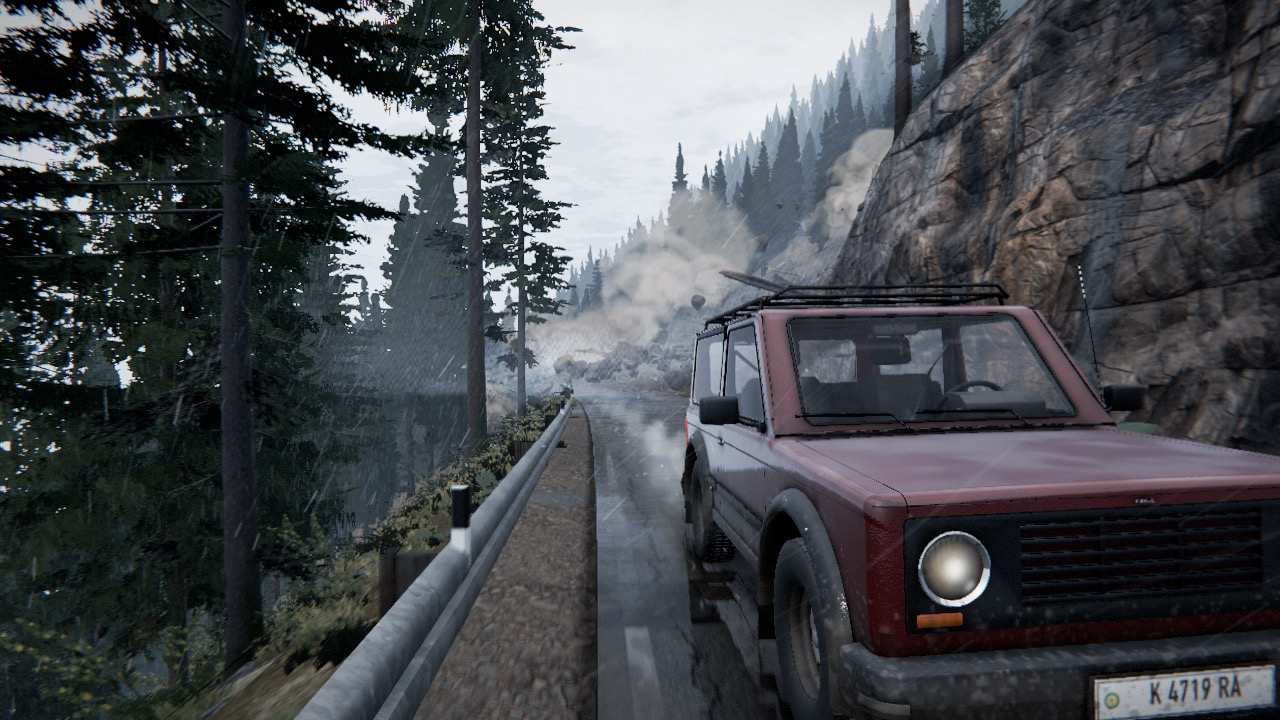
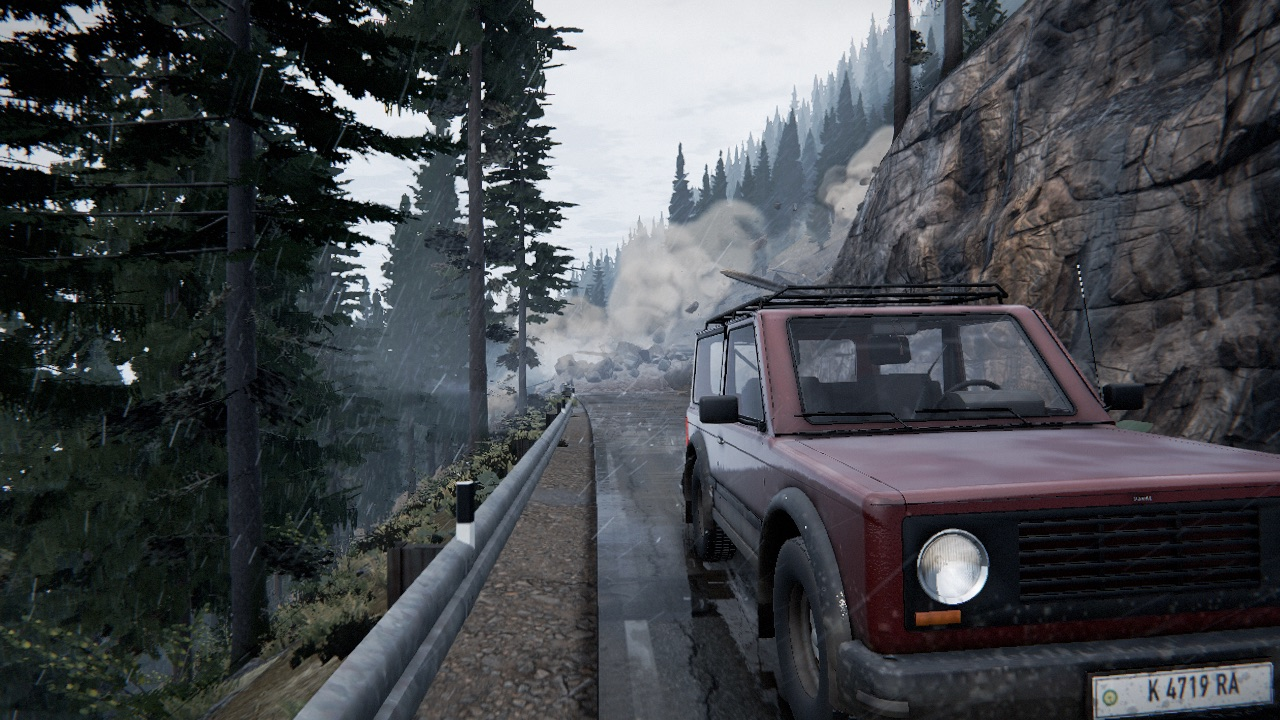
Artifact fixes: pattern-free forest, streaky tyre spray, real headlights, muddy rocks, weathered tunnel portal
- Forest: blue-noise mist jitter removes the diamond lattice; coverage-preserving mips
  and soft alpha fringes remove sparkles and stair-stepped tree edges; smooth LOD hand-over.
- Car: tyre spray rebuilt as velocity-stretched streaky mist (the blobs were exhaust vapour);
  fluted-glass H4 headlamps with chrome reflector and bulb; wipers split into their own nodes.
- Landslide: flying rocks use full-detail meshes with a wet mud coat and trailing grit.
- Tunnel: formwork panels, rain/rust streaks, moss, name plate, reflective arch strips.
- QA: kerb-crack sparkles in the tunnel, windshield micro-bead sparkles, wood-chip colour.
- Low/Medium asset variants regenerated.

diff --git a/src/render/impostor.js b/src/render/impostor.js
@@ -157,8 +157,8 @@ function lodVertexCode(depthPass) {
   float tr_dist = distance(uCamPos, tr_ipos);
   // x: fill fraction of this LOD (inner hand-over); y: fraction of its cards removed (outer hand-over). Both LODs of a
   // hand-over share one band parameter t: the incoming one fills linearly (t) while the outgoing one keeps
-  // (1 - t) / (1 - k t), which holds the union coverage of the two overlapping silhouettes constant (k = overlap area /
-  // single-LOD area, measured with scratch/fix_dither/coverage.mjs): no thickening or thinning across the band
+  // (1 - t) / (1 - k t), which holds the union coverage of the two overlapping silhouettes about constant (k tuned
+  // per hand-over with scratch/fix_dither/coverage.mjs, uLodK): no thickening or thinning across the band
   float tr_tout = smoothstep(uLod.z, uLod.w, tr_dist);
   vLodT = tr_tout;
   vLod = vec2(uLod.y > 0.0 ? smoothstep(uLod.x, uLod.y, tr_dist) : 1.0, 1.0 - (1.0 - tr_tout) / max(1.0 - uLodK.x * tr_tout, 1e-3));
@@ -206,14 +206,16 @@ const GLSL_ALPHA_MIP = /* glsl */`
 // vanishes or opens as a hard, fully bright pixel (the white "sparkles" against the misty sky). Each alpha-tested
 // material therefore has a blended twin drawn right after the opaque pass: depth test LESS against the opaque depth,
 // no depth write, it shades only the texels the opaque pass rejected (coverage between cut * FRINGE_LO and cut) and
-// blends them with opacity coverage / cut, so opacity is continuous across the cut. A real lens + sensor never renders
+// blends them with an opacity ramping from 0 to 1 over that range (continuous at both thresholds). A real lens + sensor never renders
 // a partially covered pixel as all-or-nothing either (optical low-pass: MTF50 ~0.3 cycles/px for a phone / dashcam).
-const FRINGE_LO = 0.3;
-function glslCoverage(cut, fringe, fadeDist = 0, fadeVar = '') {
+const FRINGE_LO = 0.15;   // foliage; the impostor atlas (soft, wide low-alpha skirts) uses 0.3
+function glslCoverage(cut, fringe, fadeDist = 0, fadeVar = '', loFrac = FRINGE_LO) {
   if (!fringe) return '#include <alphatest_fragment>\n';
   let fade = fadeDist ? ` * (1.0 - smoothstep(${(fadeDist * 0.6).toFixed(1)}, ${fadeDist.toFixed(1)}, length(vViewPosition)))` : '';
   if (fadeVar) fade += ` * ${fadeVar}`;
-  return `{ float tr_cov = diffuseColor.a; if (tr_cov >= ${cut.toFixed(4)} || tr_cov < ${(cut * FRINGE_LO).toFixed(4)}) discard; diffuseColor.a = tr_cov / ${cut.toFixed(4)}${fade}; }\n`;
+  // opacity ramps 0 -> 1 from cut * FRINGE_LO to cut: continuous at both ends (no visible step at either threshold)
+  const lo = cut * loFrac;
+  return `{ float tr_cov = diffuseColor.a; if (tr_cov >= ${cut.toFixed(4)} || tr_cov <= ${lo.toFixed(4)}) discard; diffuseColor.a = (tr_cov - ${lo.toFixed(4)}) / ${(cut - lo).toFixed(4)}${fade}; }\n`;
 }
 // The fringe's clip-space depth is pushed back along the view ray by `push` metres (screen position unchanged), so
 // with depth test LESS it only shades where the opaque background lies more than `push` behind it: holes through the
@@ -311,7 +313,7 @@ function glslTranslucency(mask, shell) {
 }
 
 /**
- * Foliage card material (alpha tested, double sided, bent normals, baked crown AO, wind, LOD dither).
+ * Foliage card material (alpha tested, double sided, bent normals, baked crown AO, wind, LOD card thinning).
  * opts: {map, normalMap, lod: Vector4 uniform value (shared per LOD), alphaTest}
  */
 export function createFoliageMaterial(opts) {
@@ -401,7 +403,7 @@ export function createFoliageMaterial(opts) {
   return m;
 }
 
-/** Bark material: albedo + normal + ARM (AO/rough), wetness streaks, wind, LOD dither. */
+/** Bark material: albedo + normal + ARM (AO/rough), wetness streaks, wind, LOD switch. */
 export function createBarkMaterial(opts) {
   const m = new THREE.MeshStandardMaterial({
     map: opts.map, normalMap: opts.normalMap || null, roughnessMap: opts.arm || null, aoMap: opts.arm || null,
@@ -450,7 +452,7 @@ export function createBarkMaterial(opts) {
   return m;
 }
 
-/** Shadow depth material for instanced trees (wind + alpha test; no dither). */
+/** Shadow depth material for instanced trees (wind + alpha test; no LOD selection). */
 export function createTreeDepthMaterial(map, alphaTest = 0.42) {
   const m = new THREE.MeshDepthMaterial({ depthPacking: THREE.RGBADepthPacking, map: map || null, alphaTest: map ? alphaTest : 0 });
   m.onBeforeCompile = (sh) => {
@@ -556,8 +558,8 @@ function createImpostorMaterial(meta, albedo, normal, base = null) {
         transformed = cameraPosition + (transformed - cameraPosition) * (max(dist - pull, dist * 0.5) / dist);
         float hh = max(0.0, V.w * s + hq);
         transformed += tr_wind(hh, 0.0, tr_hash12(iPos.xz * 0.173), 0.0, center);
-        // LOD distance measured exactly like the mesh LODs (main camera -> trunk base) so the complementary dither
-        // thresholds line up pixel for pixel across the mesh/impostor band
+        // LOD distance measured exactly like the mesh LODs (main camera -> trunk base) so the impostor fill and the
+        // mesh LOD1 hand-over share one band parameter (see lodVertexCode)
         float lodDist = distance(uCamPos, iPos.xyz);
         vLod = vec2(smoothstep(uLod.x, uLod.y, lodDist), smoothstep(uLod.z, uLod.w, lodDist));
         if (vLod.x <= 0.0 || vLod.y >= 1.0) transformed = vec3(0.0, -1e5, 0.0); // fully handled by meshes / beyond range
@@ -584,7 +586,7 @@ function createImpostorMaterial(meta, albedo, normal, base = null) {
         diffuseColor.rgb *= mix(vec3(1.0), tint, uTintAmt) * uFolTint * uImpBright;
         diffuseColor.rgb *= mix(1.0, 0.92, uWet);
       `)
-      .replace('#include <alphatest_fragment>', glslCoverage(IMP_CUTOFF, fringe, IMP_FRINGE_DIST) + /* glsl */`
+      .replace('#include <alphatest_fragment>', glslCoverage(IMP_CUTOFF, fringe, IMP_FRINGE_DIST, '', 0.3) + /* glsl */`
         if (vLod.x < 1.0 || vLod.y > 0.0) {
           // LOD crossfade in branch-sized clumps, not a per-pixel screen-door: tree-locked value noise in quad space
           // (~1 m and ~0.4 m cells), remapped to a near-uniform distribution (smoothstep ~ normal CDF) and weighted
@@ -682,7 +684,8 @@ for (let i = 0; i <= 4096; i++) { const c = i / 4096; _l2s[i] = Math.round(255 *
  *    alpha boost) only approximated this and was paired with a negative LOD bias that sampled sub-pixel gaps;
  *  - colour is averaged with alpha weights (premultiplied, in linear light for sRGB maps) and pushed into the empty
  *    texels of every level (push-pull dilation), so a filtered edge never picks up the colour of empty texels.
- * Level 0 stays the original image (a canvas round trip zeroes the colour of alpha = 0 texels). Runs once at load
+ * Level 0 stays the original image where possible (a canvas round trip zeroes the colour of alpha = 0 texels; an
+ * ImageBitmap is replaced, see below). Runs once at load
  * (~0.1-0.3 s for a 2048^2 atlas). Returns the per-level alpha scales, or null if the image cannot be read.
  */
 export function applyCoverageMips(tex, cutoff, { srgb = true } = {}) {
@@ -757,7 +760,24 @@ export function applyCoverageMips(tex, cutoff, { srgb = true } = {}) {
       }
     }
   }
-  const mips = [img];
+  // Level 0. An ImageBitmap (GLTFLoader) must not stay the texture's image: three.js skips the UNPACK_FLIP_Y /
+  // PREMULTIPLY / COLORSPACE pixelStorei calls for ImageBitmap textures, so the ImageData levels would be uploaded with
+  // whatever unpack state the previous texture left (measured: levels >= 1 came out vertically flipped). It is
+  // replaced by an ImageData copy whose empty texels get the dilated colour of level 1 (the canvas zeroed them).
+  let level0 = img;
+  if (typeof ImageBitmap !== 'undefined' && img instanceof ImageBitmap) {
+    const d0 = new Uint8ClampedArray(src.length), L1 = levels[0];
+    d0.set(src);
+    for (let i = 0; i < W * H; i++) {
+      if (src[i * 4 + 3] !== 0 || !L1) continue;
+      const x = Math.min(L1.w - 1, (i % W) >> 1), y = Math.min(L1.h - 1, ((i / W) | 0) >> 1), j = (y * L1.w + x) * 3;
+      for (let c = 0; c < 3; c++) { const v = Math.min(1, Math.max(0, L1.U[j + c])); d0[i * 4 + c] = dec ? _l2s[(v * 4096) | 0] : Math.round(v * 255); }
+    }
+    level0 = new ImageData(d0, W, H);
+    tex.image = level0;
+    img.close?.();
+  }
+  const mips = [level0];
   levels.forEach((L, li) => {
     const n = L.w * L.h, d = new Uint8ClampedArray(n * 4), s = scales[li];
     for (let i = 0; i < n; i++) {
@@ -873,15 +893,14 @@ export class TreeField {
     this.band0 = 3.5;
     this.band1 = Math.max(6, this.meshDist * 0.09);
     // blended coverage fringes (see glslCoverage): ultra / high on foliage + impostors, medium on impostors only
-    // (cheap), low none. Debug: ?fringe=all|imp|none (?nofringe = none).
+    // (cheap), low none. Debug: ?fringe=all|near|imp|none (?nofringe = none).
     const sp = new URLSearchParams(globalThis.location?.search || '');
     const fr = sp.has('nofringe') ? 'none' : (sp.get('fringe') || (q.key === 'low' ? 'none' : q.key === 'medium' ? 'imp' : 'all'));
-    this.fringe = fr === 'all' || fr === 'full';      // mesh foliage
+    this.fringe = fr === 'all' || fr === 'near';      // mesh foliage
     this.impFringeOn = this.fringe || fr === 'imp';   // impostors
-    // mesh-foliage fringe on every mesh LOD on ultra; on high only on the near trees (LOD0 + shadow-casting LOD1, the
-    // crowns where sky holes read as sparkles), handing over to the plain alpha test over the 8 m before shadowDist
-    // (the far-LOD1 fringe cost ~0.3 ms on the M1 for trees whose edges the impostor fringe takes over at 34+ m)
-    this.fringeFar = this.fringe && (q.key === 'ultra' || fr === 'full');
+    // 'near': the mesh-foliage fringe only on LOD0 + the shadow-casting LOD1, handing over to the plain alpha test over
+    // the 8 m before shadowDist (saves ~0.15 ms on the M1 but the 20-30 m crowns sparkle again; not used by a preset)
+    this.fringeFar = this.fringe && fr !== 'near';
     if (this.fringe && !this.fringeFar) FOLIAGE.fringeFade.value.set(this.shadowDist - 8, this.shadowDist);
     else FOLIAGE.fringeFade.value.set(1e9, 1e9 + 1);
     // coverage gains that make every LOD of a tree cover the same crown area (scratch/fix_dither/coverage.mjs, isolated
@@ -890,7 +909,7 @@ export class TreeField {
     // real Norway spruce at 30-50 m; the model's decimated LOD1 needs the larger gain)
     FOLIAGE.gain0.value.set(this.fringe ? 1.3 : 2.0, 2.0);
     FOLIAGE.gain1.value.set(this.fringe ? 1.7 : 3.0, 3.0);
-    FOLIAGE.impGain.value = this.impFringeOn ? 0.8 : 1.1;
+    FOLIAGE.impGain.value = this.impFringeOn ? 0.9 : 1.15;
     this.group = new THREE_.Group();
     this.group.name = 'trees';
     ctx.scene.add(this.group);
@@ -962,7 +981,7 @@ export class TreeField {
           const mat = isFol ? matFol[ml] : (key === 'bark_grey' ? matGrey[ml] : matBark[ml]);
           const im = new THREE.InstancedMesh(geo, mat, cap[lod]);
           im.name = `${names[vi]}_lod${lod}_${key}`;
-          // PERF (QA): every tree material discards (alpha test + dithered LOD crossfade), which defeats the M1's
+          // PERF (QA): every tree material discards (alpha test + LOD card thinning), which defeats the M1's
           // hidden-surface removal. Drawing the distance bands near -> far (LOD0, LOD1, LOD2, then impostors) lets
           // early-z reject hidden needle cards: -12 % GPU time in the escape drive, no visual change.
           im.renderOrder = 1 + lod;

diff --git a/src/world/particles.js b/src/world/particles.js
@@ -366,6 +366,7 @@ attribute vec4 iS;     // scale, kind (0 rock chip, 1 mud, 2 wood splinter), see
 uniform float uTime;
 varying float vKind;
 varying float vShade;
+varying vec3 vChL;
 mat3 chipRot(vec3 ax, float a) {
   ax = normalize(ax); float s = sin(a), c = cos(a), oc = 1.0 - c;
   return mat3(oc * ax.x * ax.x + c, oc * ax.x * ax.y + ax.z * s, oc * ax.z * ax.x - ax.y * s,
@@ -393,7 +394,11 @@ vec3 chP = iP0 + iV * chTe + vec3(0.0, -4.905 * chTe * chTe, 0.0);
 if (chAge > chTl) { chP.xz += iV.xz * min(chAge - chTl, 0.2) * 0.25; chP.y = iT.z; }
 float chSc = iS.x * chAlive * (1.0 - smoothstep(0.8, 1.0, chAge / max(iT.y, 1e-3)));
 vec3 chShape = iS.y > 1.5 ? vec3(0.9, 0.22, 2.0) : vec3(1.0);   // wood: thin flat splinter
-vec3 transformed = chR * (position * chShape * chSc);
+// (QA) a flattened icosahedron is a pointed lens (read as seeds / petals in the chop shot); hatchet chips from spruce
+// are split slabs with blunt, torn ends: push the wood chip's vertices toward the box corners
+vec3 chPos = iS.y > 1.5 ? sign(position) * pow(abs(position), vec3(0.4)) : position;
+vChL = chPos * chShape;
+vec3 transformed = chR * (chPos * chShape * chSc);
 if (chSplat) { transformed.y *= 0.22; transformed.xz *= 1.7; transformed.y += chSc * 0.05; }
 transformed += chP;
 vKind = iS.y;
@@ -431,10 +436,13 @@ class ChipSystem {
         .replace('#include <beginnormal_vertex>', CHIP_NORMAL)
         .replace('#include <begin_vertex>', CHIP_VERT);
       sh.fragmentShader = sh.fragmentShader
-        .replace('#include <common>', '#include <common>\nvarying float vKind;\nvarying float vShade;')
+        .replace('#include <common>', '#include <common>\nvarying float vKind;\nvarying float vShade;\nvarying vec3 vChL;')
         .replace('#include <color_fragment>', `#include <color_fragment>
           // rock chip / wet mud / fresh spruce wood (pale sapwood, ~1 in 5 a dark bark flake)
           vec3 chWood = vShade > 1.18 ? vec3(0.075, 0.045, 0.03) : vec3(0.47, 0.335, 0.17) * (0.75 + 0.35 * vShade);
+          // growth rings / fibres run along the splinter (local z): fine lengthwise stripes, latewood darker
+          float chGr = fract(sin(floor(vChL.x * 3.5 + vChL.y * 2.0 + vShade * 17.0) * 43.7) * 7613.1);
+          chWood *= 0.8 + 0.2 * chGr - 0.1 * smoothstep(0.85, 1.0, abs(vChL.z) / 2.0);
           diffuseColor.rgb = vKind < 0.5 ? vec3(0.19, 0.18, 0.165) * vShade : (vKind < 1.5 ? vec3(0.06, 0.045, 0.032) * vShade : chWood);`)
         .replace('#include <roughnessmap_fragment>', '#include <roughnessmap_fragment>\nroughnessFactor = vKind < 0.5 ? 0.72 : (vKind < 1.5 ? 0.22 : 0.6);');
     };
@@ -1128,7 +1136,12 @@ void main() {
     // defocus: the eye / lens is focused on the road, a 4 mm pupil blurs the glass (0.7 m) by ~3 px
     float blurR = 2.2 / max(mag * 0.5, 1.0);
     float edge = 1.0 - smoothstep(max(1.0 - blurR, 0.15), 1.0 + blurR * 0.3, r);
-    col = dcol; alpha = edge * smoothstep(0.0, 0.12, bage);
+    // (QA) a bead smaller than that ~5.5 mrad blur circle cannot show as a crisp dot: its light is spread over the
+    // blur disc at a fraction of the contrast. Drawn only over its own 1-2 px it was a full-contrast white pixel (the
+    // sky image in its lower half) -> hundreds of sparkles against the dark headwall. Fade sub-blur beads by
+    // diameter / blur (between peak-preserving and energy-conserving); beads larger than the blur are unchanged.
+    float sub = clamp(mag / max(0.0055 * uPxRad, 1.0), 0.2, 1.0);
+    col = dcol; alpha = edge * smoothstep(0.0, 0.12, bage) * sub;
   }
   // ---- rivulets: big drops run down (slow) or are blown up the glass (fast), leaving a wet trail ----------------
   {

diff --git a/src/world/terrain.js b/src/world/terrain.js
@@ -92,6 +92,8 @@ export default class Terrain {
       catch (e) { console.warn('[terrain] portal collar', e); }
       try { const seal = this._portalRingSeal(matTunnel, root); if (seal) root.add(seal); }
       catch (e) { console.warn('[terrain] portal ring seal', e); }
+      try { const ul = this._tunnelUnderlay(root); if (ul) root.add(ul); }
+      catch (e) { console.warn('[terrain] tunnel underlay', e); }
       // the portal drainage channel needs ground heights (Rapier queries work after the first step): built in update()
       this._chanPending = true; this._matTunnel = matTunnel;
     }
@@ -827,6 +829,43 @@ export default class Terrain {
     const mesh = new THREE.Mesh(geo, mat);
     mesh.name = 'tunnel_portal_collar';
     mesh.receiveShadow = true; mesh.castShadow = false;
+    mesh.matrixAutoUpdate = false;
+    return mesh;
+  }
+
+  /**
+   * (QA) Inside the tube nothing lies under the road strip: its edge (d = +-3.049, 6 cm below the crown, 0.5 m
+   * vertices) meets the tunnel kerb face (d = +-3.05, 1 m vertices) along T-junction cracks, and the road's skirt
+   * faces away from the camera (culled), so the sky dome showed through as a row of single-pixel blue-white sparkles
+   * along the foot of both kerbs. A dark unlit strip 25 cm below the centreline, wide enough to catch grazing rays
+   * that run on under the kerb and walkway (d = +-5.2), closes every such crack; it is hidden everywhere else.
+   */
+  _tunnelUnderlay(root) {
+    const road = this.ctx.road;
+    if (!road) return null;
+    const s0 = TUNNEL.s0 - 1.0, s1 = TUNNEL.s1, W = 5.2, DY = -0.25;
+    const inv = new THREE.Matrix4().copy(root.matrixWorld).invert();
+    const pos = [], idx = [], c = new THREE.Vector3(), l = new THREE.Vector3(), w = new THREE.Vector3();
+    const n = Math.ceil(s1 - s0);
+    for (let k = 0; k <= n; k++) {
+      const s = s0 + ((s1 - s0) * k) / n;
+      road.pointAt(s, c); road.leftAt(s, l);
+      for (const d of [W, -W]) {
+        w.copy(c).addScaledVector(l, d); w.y = c.y + DY;
+        w.applyMatrix4(inv);
+        pos.push(w.x, w.y, w.z);
+      }
+      if (k) { const a = (k - 1) * 2; idx.push(a, a + 1, a + 2, a + 1, a + 3, a + 2); }
+    }
+    const geo = new THREE.BufferGeometry();
+    geo.setAttribute('position', new THREE.Float32BufferAttribute(pos, 3));
+    geo.setIndex(idx);
+    geo.computeBoundingSphere();
+    const mat = new THREE.MeshBasicMaterial({ color: 0x0b0907, side: THREE.DoubleSide });
+    this.materials?.push(mat);
+    const mesh = new THREE.Mesh(geo, mat);
+    mesh.name = 'tunnel_underlay';
+    mesh.castShadow = false; mesh.receiveShadow = false;
     mesh.matrixAutoUpdate = false;
     return mesh;
   }

diff --git a/src/render/grass.js b/src/render/grass.js
@@ -592,7 +592,9 @@ function createGrassCardMaterial(map, normalMap, radius) {
 /** Ground-flora card material (bilberry, coltsfoot, butterbur): atlas albedo + normal, alpha test, flutter, wet sheen. */
 function createFloraMaterial(map, normalMap, radius, opts = {}) {
   const m = new THREE.MeshStandardMaterial({
-    map, normalMap: normalMap || null, side: THREE.DoubleSide, alphaTest: opts.alphaTest ?? 0.45,
+    // alpha test 0.4 (was 0.45): the shared needle / leaf atlas now carries a coverage-preserving mip chain built for
+    // the 0.42 foliage test (render/impostor.js applyCoverageMips); 0.4 keeps the flora as full as with the old box mips
+    map, normalMap: normalMap || null, side: THREE.DoubleSide, alphaTest: opts.alphaTest ?? 0.4,
     roughness: opts.roughness ?? 0.7, metalness: 0, normalScale: new THREE.Vector2(0.7, 0.7), envMapIntensity: 0.55,
   });
   if (opts.color) m.color.copy(opts.color);
@@ -673,7 +675,7 @@ export class GrassField {
       this.bilberry = this._mkInst(buildBilberry(31), createFloraMaterial(opts.foliageMap, opts.foliageNormal, R, { roughness: 0.65, color: new THREE.Color(0.8, 0.8, 0.75) }), 2600, 'bilberry');
       this.coltsfoot = this._mkInst(buildForb(41, 'coltsfoot'), createFloraMaterial(opts.foliageMap, opts.foliageNormal, R, { roughness: 0.8, wetRough: 0.55, color: new THREE.Color(0.58, 0.6, 0.58) }), 900, 'coltsfoot');
       this.butterbur = this._mkInst(buildForb(43, 'butterbur'), createFloraMaterial(opts.foliageMap, opts.foliageNormal, R, { roughness: 0.7, wetRough: 0.5, color: new THREE.Color(0.7, 0.74, 0.66) }), 400, 'butterbur');
-      const lm = createFloraMaterial(opts.foliageMap, opts.foliageNormal, Math.min(R, 30), { roughness: 0.85, wetRough: 0.55, alphaTest: 0.5,
+      const lm = createFloraMaterial(opts.foliageMap, opts.foliageNormal, Math.min(R, 30), { roughness: 0.85, wetRough: 0.55, alphaTest: 0.45,
         color: new THREE.Color(0.62, 0.62, 0.52) });
       lm.polygonOffset = true; lm.polygonOffsetFactor = -2; lm.polygonOffsetUnits = -2; lm.side = THREE.FrontSide;
       this.litter = this._mkInst(buildLitterQuad(), lm, 1200, 'litter');

diff --git a/README.md b/README.md
@@ -12,7 +12,7 @@ It is a cold, wet afternoon, and you are driving an old 4x4 up a narrow cliff ro
 | ![Chopping the fallen tree](docs/screenshots/04_chopping_tree.jpg) | ![Escape: rocks crossing the road](docs/screenshots/05_escape_rocks_cockpit.jpg) |
 | ![The tunnel](docs/screenshots/06_tunnel_win.jpg) | |
 
-*All screenshots are real-time captures at 1280×720 on the default "High" preset.*
+*All screenshots are real-time captures at 1280×720 on the "High" preset.*
 
 Built with three.js r186 (WebGL2), Rapier physics, pmndrs postprocessing and N8AO. **There are no downloaded 3D models.** The terrain, car, trees, rocks, props and tunnel are all built from scratch, either by Blender Python scripts or procedurally in JavaScript. All audio is synthesized at runtime. The only external assets are CC0 textures and one HDRI from [Poly Haven](https://polyhaven.com).
 
@@ -47,12 +47,12 @@ npm run preview      # serves dist/ at http://localhost:4173
 
 ## Quality settings
 
-Choose a preset on the title screen (*Settings → Graphics quality*; the page reloads), or add `?quality=ultra|high|medium|low` to the URL. The choice is remembered in `localStorage`.
+On the first visit a quality screen appears before anything heavy is downloaded (*Low* is preselected, with a suggestion for your GPU; *Medium* and *Low* load lighter asset variants). You can change it later on the title screen (*Settings → Graphics quality*; the page reloads), or add `?quality=ultra|high|medium|low` to the URL. The choice is remembered in `localStorage`.
 
 | Preset | Render resolution | Sun shadow | AO | Wet-road reflections | Extras | Vegetation |
 |---|---|---|---|---|---|---|
-| **Ultra** | native, up to 2× DPR (Retina) | 4096², 70 m, lamp spot shadow | N8AO medium, full-res | screen-space, 20-step march (road + puddles) | depth of field, motion blur | grass 70 m, mesh trees 110 m |
-| **High** (default) | 1× CSS pixels | 2048², 60 m | N8AO low, half-res | screen-space, 10-step march (road) | depth of field, motion blur | grass 55 m, mesh trees 80 m |
+| **Ultra** | native, up to 2× DPR (Retina) | 4096², 70 m, lamp spot shadow | N8AO medium, full-res | screen-space, 20-step march (road + puddles) | camera motion blur at speed | grass 70 m, mesh trees 110 m |
+| **High** | 1× CSS pixels | 2048², 60 m | N8AO low, half-res | screen-space, 10-step march (road) | camera motion blur at speed | grass 55 m, mesh trees 80 m |
 | **Medium** | 0.8× | 2048², 50 m | N8AO performance | screen "infinity" sample only | | grass 40 m, mesh trees 55 m |
 | **Low** | 0.65× | 1024², 40 m | off | env map only | no bloom | grass 28 m, mesh trees 35 m |
 
@@ -62,22 +62,24 @@ The post chain is N8AO, a volumetric mist pass, a half-resolution history copy f
 
 | Measurement (High, 1280×720) | Result |
 |---|---|
-| Full automated playthrough, average fps per 50 m section (three full runs, the last on the final build; no deaths) | 54–61 fps in the intro, on foot and in the escape. The slowest section is the washout (laying the planks on foot, looking into the trench): 54 fps after a 10-minute cool-down, 48–52 fps on a warm machine |
-| Lowest one-second sample in those runs | 47 fps |
-| Fixed viewpoints every 100–150 m along the route | 56–60 fps, 0.31–1.62 M triangles, 83–321 draw calls |
-| Two of those viewpoints (s = 150, 560) after ~90 min of continuous load (thermal throttling) | 50–52 fps |
-| Full-screen 1440×900 window (1× DPR), four viewpoints, throttled | 38–41 fps |
+| Full automated playthrough on *High* (`--quality=high`), average fps per 50 m section, three full runs on the final build (all won, no deaths, no console errors) | 53–61 fps in the intro, on foot and in the escape. The slowest section is the washout (laying the planks on foot, looking down into the trench, where the terrain shader fills most of the screen): 52 fps after a 10-minute cool-down, 48–49 fps on a machine that had been under GPU load for over an hour |
+| Lowest one-second sample in those runs | 45–46 fps (the washout) |
+| Per-section peaks in those runs | 0.5–2.1 M triangles, 141–381 draw calls |
+| Uncapped frame time at fixed viewpoints (s = 150, 305, 560, 700, 1140; frames rendered back to back with one sync at the end, so it includes about 2 ms of CPU submission that gameplay overlaps with the GPU) | 19.4, 17.4, 19.3, 18.4 and 13.5 ms |
+| Earlier QA pass: two viewpoints (s = 150, 560) after ~90 min of continuous load (thermal throttling) | 50–52 fps |
+| Earlier QA pass: full-screen 1440×900 window (1× DPR), four viewpoints, throttled | 38–41 fps |
 
 The MacBook Air has no fan, so after 30–60 minutes of full GPU load it throttles and every number above drops by about 10 %. Frame rates also drop sharply if another app is using the GPU at the same time: in one session another app kept the GPU about 55 % busy, and the same build measured 36–49 fps. Choose *Ultra* on a faster GPU for Retina-native resolution, or *Medium* on a warm or busy laptop.
 
 ## How it was made
 
 ### Rendering (`src/render/`)
-- **Terrain:** a biplanar splat of nine scanned CC0 texture sets, packed into texture arrays and tiled at each scan's real capture size (0.2–2 m fracture blocks on the rock cut). It is driven by baked vertex masks (AO, gravel, mud, vegetation) plus slope and macro noise. The rain-wetness model darkens porous surfaces, leaves overhangs dry, and draws water on the rock faces: black cyanobacteria "ink stripes", live seeps, iron staining and calcite crusts below joints, sheet flow, blasting half-casts on the cut, and a soaked halo around each gully fall. The washout shows the road structure in section (asphalt, pale sub-base, brown fill). Far mountains get alpine zonation (turf, scree fans, rock bands, fresh snow). The tunnel lining ends in a concrete arch ring set into the headwall, so no sky shows through the seam around the tunnel mouth.
+- **Terrain:** a biplanar splat of nine scanned CC0 texture sets, packed into texture arrays and tiled at each scan's real capture size (0.2–2 m fracture blocks on the rock cut). It is driven by baked vertex masks (AO, gravel, mud, vegetation) plus slope and macro noise. The rain-wetness model darkens porous surfaces, leaves overhangs dry, and draws water on the rock faces: black cyanobacteria "ink stripes", live seeps, iron staining and calcite crusts below joints, sheet flow, blasting half-casts on the cut, and a soaked halo around each gully fall. The washout shows the road structure in section (asphalt, pale sub-base, brown fill). Far mountains get alpine zonation (turf, scree fans, rock bands, fresh snow). The tunnel lining ends in a concrete arch ring set into the headwall, so no sky shows through the seam around the tunnel mouth. Inside the tube a dark strip under the road closes the hairline seam where the road meets the kerbs, which used to let the sky through as a row of blue-white sparkles.
 - **Road:** saw-cut repair patches and trench reinstatements with tar overbands, sealed and open cracks, alligator cracking, faded thermoplastic lines, polished wheel paths, rutted puddles with rain ripples, sheet flow and mud tongues below the gullies, and grit spilled from the slide. Screen-space reflections add a patchy water-film lobe, so the wet road reflects the real tree line, car and barriers, stretched vertically as on real wet asphalt.
 - **Water:** thin running-water ribbons in the ditch and the gullies, with falls where the gullies meet the road cut. The rock around each fall is soaked dark and glossy (only the falls within about 220 m of the camera are evaluated).
 - **Atmosphere:** global height fog and aerial perspective, done with ShaderChunk overrides so every material gets it. It adds valley mist sheets, a low cloud deck and sun in-scatter. The volumetric mist is ray-marched at reduced resolution and upsampled with a depth-aware 4×4 filter, so it stays smooth and shows no dither pattern. The sky dome and the image-based lighting both come from the 8k overcast HDRI.
 - **Rain:** streaks drawn from a Marshall-Palmer drop-size distribution, each falling at its terminal velocity and smeared over the camera's exposure time, plus drifting rain veils, ground mist, splashes on the road, tyre spray, and refracting drops and a wiper-swept water film on the windshield in the cockpit view.
+  - **Windshield beads:** each bead is a small inverted water lens (the sky shows in its lower half). The glass is about 0.7 m from a lens focused on the road, so it is blurred by about 5.5 mrad (about 3 px at 720p). Beads smaller than that blur fade in proportion, so the fine mist on the glass reads as a faint haze, not as bright pixel sparkles against the dark tunnel headwall.
   - **Photometry:** the far rain is calibrated to real coverage. At about 4 mm/h there are about 220 drops larger than 0.8 mm per m³, and each one covers a pixel for only about 1.5 % of a 1/55 s exposure. Rain beyond a few metres therefore shows as a faint, fine texture (mean opacity 0.5–1 %) against dark rock and trees, not as bright dashes.
   - **Tyre spray:** matched to a small car at 40–50 km/h on a film of water about 1 mm deep: a low, continuous haze behind each tyre, about 1 m high, that clears in about half a second. The heavier drops are a few centimetres across.
 - **Dust:** rockfall dust has the albedo of the crushed rock itself (about 0.3 dry, 0.2 wet), so it reads about as bright as the concrete, well below the overcast sky. The rain thins it quickly.
@@ -132,7 +134,7 @@ URL flags (see `src/core/debug.js`):
 | `?quality=…` | pick a quality preset |
 
 - `node tools/shot.mjs "/?autostart&debug&camS=300,-1.5,1.6,30" out.png` takes a headless-Chrome (GPU) screenshot and prints console errors plus frame stats.
-- `node scratch/game/playthrough.mjs [--shots] [--perf] [--base=http://127.0.0.1:4173]` plays the whole game automatically from the title to the win, and reports deaths, console errors and per-section fps. Note that `scratch/` is git-ignored: these test scripts exist only in the local working copy, not in the repository.
+- `node scratch/game/playthrough.mjs [--shots] [--perf] [--quality=high] [--base=http://127.0.0.1:4173]` plays the whole game automatically from the title to the win, and reports deaths, console errors and per-section fps. Pass `--quality=high` to measure *High*: without it the fresh headless browser profile starts on the *Low* preset, which is the default for a first-time player. Note that `scratch/` is git-ignored: these test scripts exist only in the local working copy, not in the repository.
 
 ## Project layout
 
